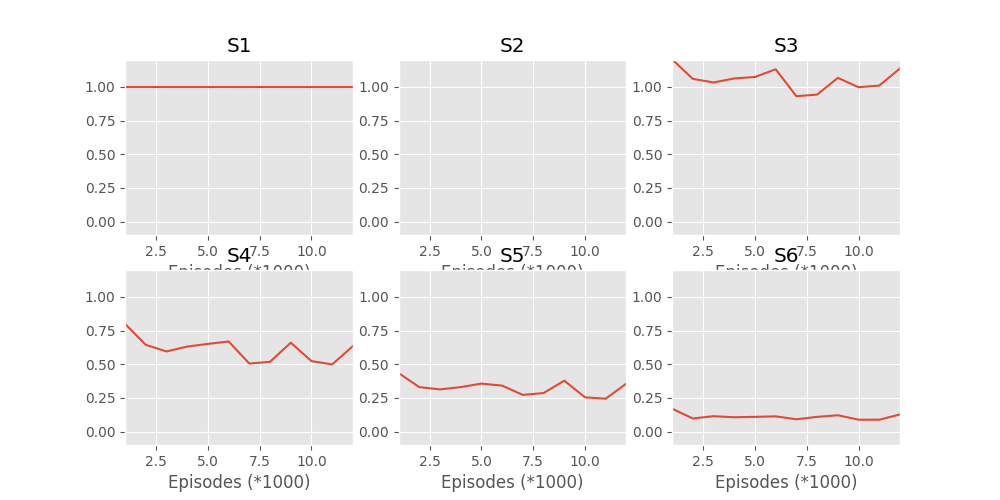
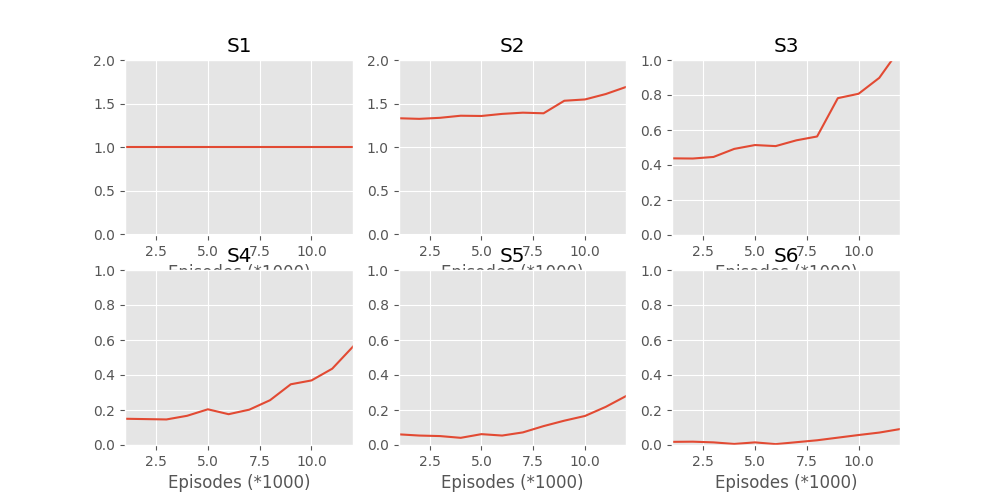
Fixed goal indexing

diff --git a/run.py b/run.py
@@ -34,32 +34,32 @@ def main():
             done = False
             while not done:
                 goal = agent.select_goal(one_hot(state))[0]
-                agent.goal_selected[goal-1] += 1
-                goals[episode_thousand][goal-1]+=1
-                print "\nNew Goal: "  + str(goal) + "\nState-Actions: "
+                agent.goal_selected[goal] += 1
+                goals[episode_thousand][goal]+=1
+                print "\nNew Goal: "  + str(goal+1) + "\nState-Actions: "
                 total_external_reward = 0
                 goal_reached = False
                 while not done and not goal_reached:
                     episode_length += 1
-                    action = agent.select_move(one_hot(state), one_hot(goal), goal)[0]
+                    action = agent.select_move(one_hot(state), one_hot(goal+1), goal)[0]
                     print(str((state,action)) + "; ")
                     next_state, external_reward, done = env.step(action)
                     if external_reward==1:
-                        print "extrinsic_reward: ", goal," reward:", external_reward
+                        print "extrinsic_reward: ", goal+1," reward:", external_reward
                     #print "next_state, external_reward, done", next_state, external_reward, done
                     # Update statistics
                     stats.episode_rewards[episode_thousand*1000 + episode] += external_reward
                     stats.episode_lengths[episode_thousand*1000 + episode] = episode_length
 
                     visits[episode_thousand][next_state-1] += 1
-                    intrinsic_reward = agent.criticize(goal, next_state)
-                    goal_reached = next_state == goal
+                    intrinsic_reward = agent.criticize(goal+1, next_state)
+                    goal_reached = next_state == goal+1
                     if goal_reached:
-                        agent.goal_success[goal-1] += 1
+                        agent.goal_success[goal] += 1
                         print "Goal reached!! "
                     if next_state == 6:
                         print "S6 reached!! "
-                    exp = ActorExperience(one_hot(state), one_hot(goal), action, intrinsic_reward, one_hot(next_state), done)
+                    exp = ActorExperience(one_hot(state), one_hot(goal+1), action, intrinsic_reward, one_hot(next_state), done)
                     agent.store(exp, meta=False)
                     agent.update(meta=False)
                     agent.update(meta=True)
@@ -70,19 +70,19 @@ def main():
                 
                 #Annealing 
                 agent.meta_epsilon -= anneal_factor
-                avg_success_rate = agent.goal_success[goal-1] / agent.goal_selected[goal-1]
+                avg_success_rate = agent.goal_success[goal] / agent.goal_selected[goal]
                 print "avg_success_rate : ", avg_success_rate
                 # if(avg_success_rate < 0.9):
-                agent.actor_epsilon[goal-1] -= anneal_factor
+                agent.actor_epsilon[goal] -= anneal_factor
                 # else:
-                #     agent.actor_epsilon[goal-1] = 1 - avg_success_rate
+                #     agent.actor_epsilon[goal] = 1 - avg_success_rate
             
-                if agent.actor_epsilon[goal-1] < 0.1:
-                    agent.actor_epsilon[goal-1] = 0.1
+                if agent.actor_epsilon[goal] < 0.1:
+                    agent.actor_epsilon[goal] = 0.1
                 if agent.meta_epsilon < 0.1:
                     agent.meta_epsilon = 0.1
                 print "meta_epsilon: " + str(agent.meta_epsilon)
-                print "actor_epsilon " + str(goal) + ": " + str(agent.actor_epsilon[goal-1])
+                print "actor_epsilon " + str(goal + 1) + ": " + str(agent.actor_epsilon[goal])
 
                 
         print "visits", visits
@@ -144,6 +144,7 @@ def main():
     plt.show()  
 
     plt.clf()
+    
     eps = list(range(1,13))
     plt.subplot(2, 3, 1)
     plt.plot(eps, goals[:,0]/1000)

diff --git a/agent/Hdqn.py b/agent/Hdqn.py
@@ -73,7 +73,7 @@ class Hdqn:
 	def select_move(self, state, goal, goal_value):
 		vector = np.concatenate([state, goal], axis=1)
 		#print "vector"
-		if random.random() < self.actor_epsilon[goal_value-1]:
+		if random.random() < self.actor_epsilon[goal_value]:
 			print "Exploring action"
 			return torch.IntTensor([random.randrange(2)])
 			#print "Here ------>", self.actor(Variable(torch.from_numpy(vector).float())).data.numpy()
